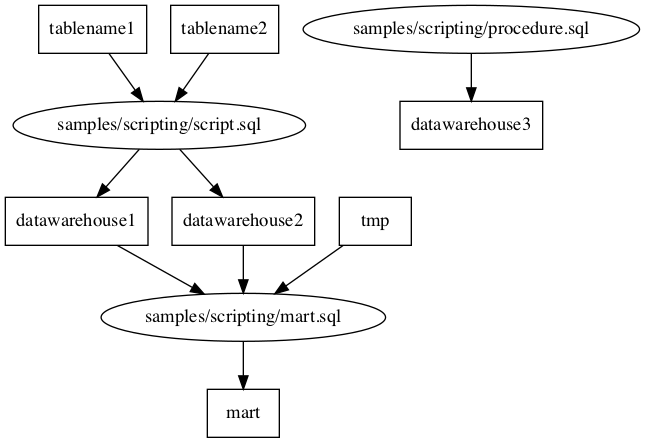
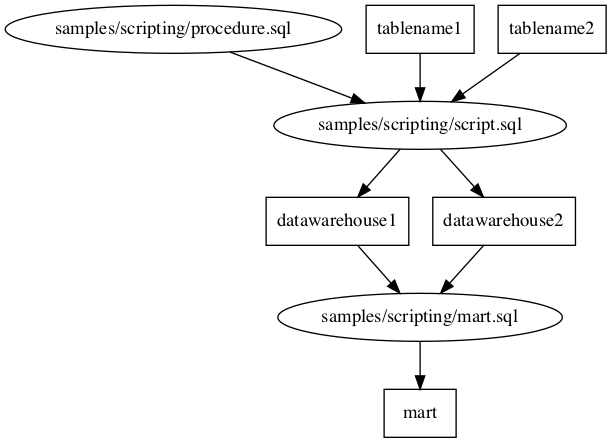
[WIP] Procedure dependency analysis

diff --git a/alphasql/identifier_resolver.cc b/alphasql/identifier_resolver.cc
@@ -245,15 +245,15 @@ void IdentifierResolver::visitASTCreateTableFunctionStatement(
 
 void IdentifierResolver::visitASTCallStatement(const ASTCallStatement *node,
                                                void *data) {
-  node->ChildrenAccept(this, data);
-  // print("CALL");
-  // node->procedure_name()->Accept(this, data);
-  // print("(");
-  // UnparseVectorWithSeparator(node->arguments(), data, ",");
-  // print(")");
+  identifier_information.function_information.called.insert(
+      node->procedure_name()->ToIdentifierVector());
+  visitASTChildren(node, data);
+}
 
-  // Currently procedures are ignored.
-  return;
+void IdentifierResolver::visitASTCreateProcedureStatement(
+    const ASTCreateProcedureStatement *node, void *data) {
+  identifier_information.function_information.defined.insert(
+      node->name()->ToIdentifierVector());
 }
 
 } // namespace identifier_resolver

diff --git a/alphasql/alphacheck.cc b/alphasql/alphacheck.cc
@@ -193,6 +193,18 @@ absl::Status check(const std::string &sql, const ASTStatement *statement,
     }
     break;
   }
+  case RESOLVED_CREATE_PROCEDURE_STMT: {
+    auto *create_proc_stmt =
+        resolved_statement->GetAs<ResolvedCreateProcedureStmt>();
+    std::cout
+        << "Create Procedure Statement analyzed, adding procedure to catalog..."
+        << std::endl;
+    std::cout << create_proc_stmt->signature().DebugString() << std::endl;
+    const Procedure *proc = new Procedure(create_proc_stmt->name_path(),
+                                    create_proc_stmt->signature());
+    catalog->AddOwnedProcedure(proc);
+    break;
+  }
   case RESOLVED_DROP_STMT: {
     auto *drop_stmt = resolved_statement->GetAs<ResolvedDropStmt>();
     std::cout << "Drop Statement analyzed, dropping table from catalog..."

diff --git a/alphasql/identifier_resolver.h b/alphasql/identifier_resolver.h
@@ -104,6 +104,8 @@ public:
   void visitASTCreateTableFunctionStatement(
       const ASTCreateTableFunctionStatement *node, void *data) override;
   void visitASTCallStatement(const ASTCallStatement *node, void *data) override;
+  void visitASTCreateProcedureStatement(const ASTCreateProcedureStatement *node,
+                                        void *data) override;
 };
 
 } // namespace identifier_resolver
